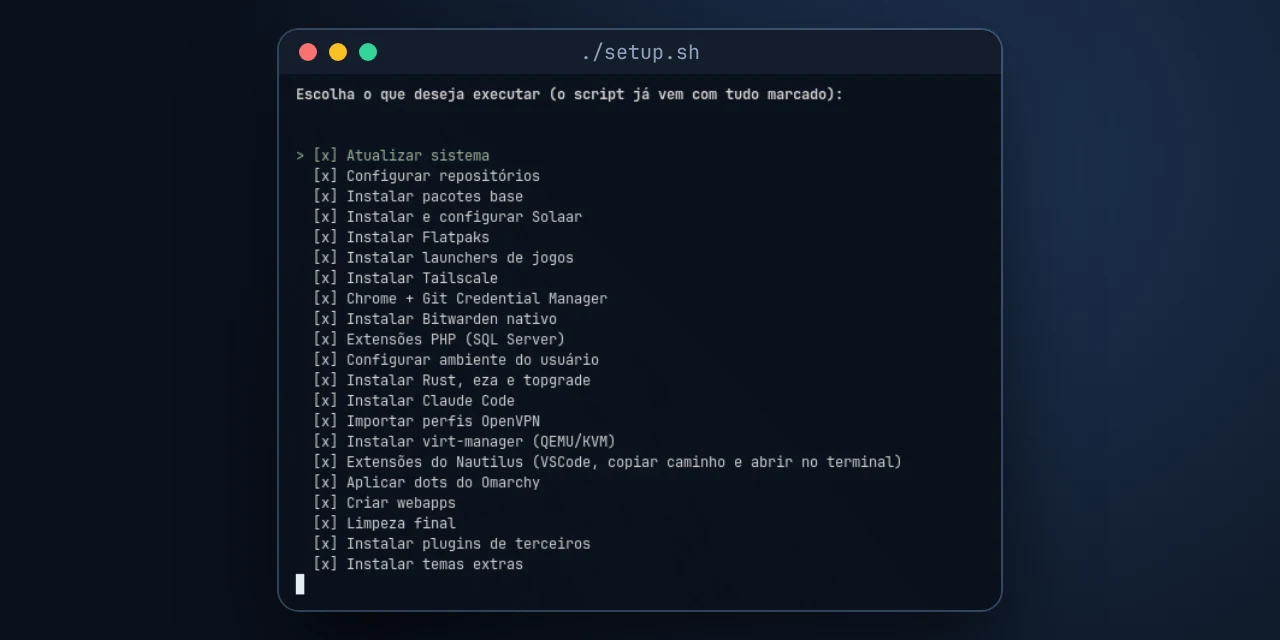
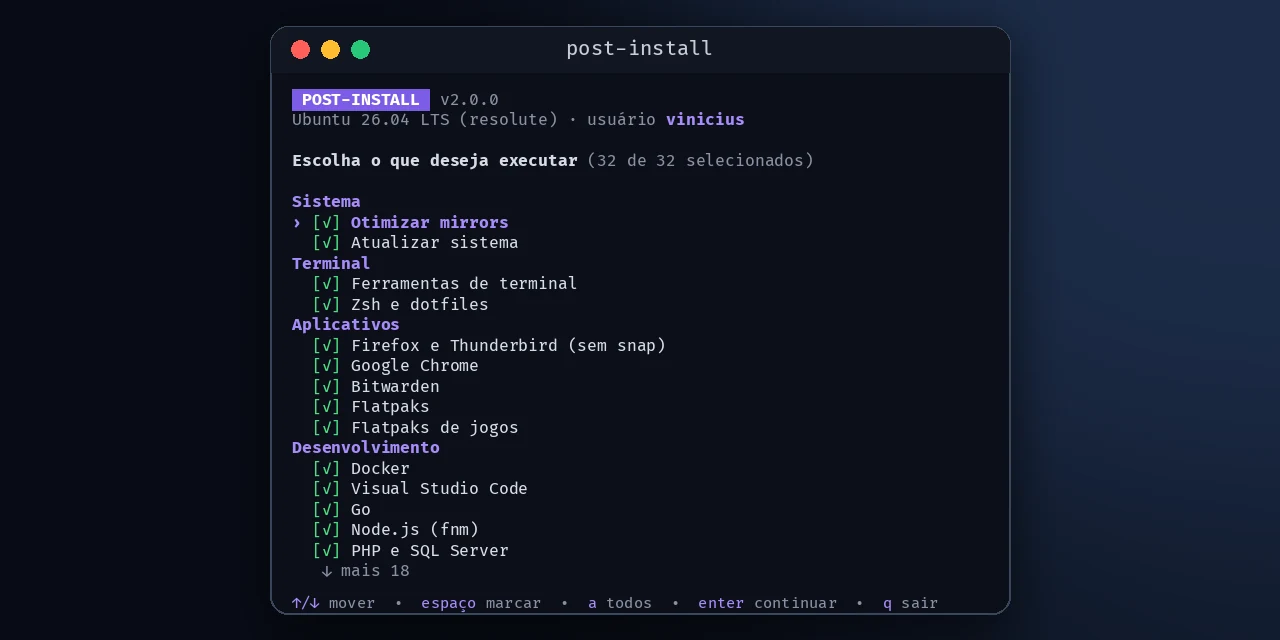
feat(projects): drop Omarchy projects and add current ones
Remove the Omarchy plugins card, which is no longer maintained, and
add the election results site and deploy-tools. The environment
automation card now points to post-install (Go TUI) and the Nautilus
card no longer lists the Omarchy-only terminal extension. New card
images and matching changes in the LaTeX resume.

diff --git a/src/app/data/projects.ts b/src/app/data/projects.ts
@@ -65,35 +65,48 @@ export const PROJECTS: Project[] = [
     links: {},
   },
   {
-    titulo: 'Plugins para Omarchy',
+    titulo: 'Resultados das Eleições',
     descricao:
-      'Widgets open-source para a barra do Omarchy (Arch + Hyprland): Now Bar, gerenciador de clipboard, VPN, mídia, bateria, energia e conexões remotas — além do tema Lunar Quest.',
-    imagem: 'assets/projects/omarchy_plugins.webp',
+      'Apuração das eleições brasileiras em tempo real com os dados oficiais do TSE: de presidente a vereador, do país inteiro até cada um dos 5.570 municípios, com mapa, notificações e tema escuro.',
+    imagem: 'assets/projects/resultado_eleicoes.webp',
     categoria: 'pessoal',
-    tecnologias: ['QML', 'Python', 'Linux', 'Wayland'],
+    tecnologias: ['Laravel', 'React', 'Inertia.js', 'Tailwind CSS'],
     contribuidores: ['vinicgobbi'],
     destaque: true,
-    links: { github: 'https://github.com/vinicgobbi?tab=repositories&q=omarchy' },
+    links: {
+      github: 'https://github.com/vinicgobbi/resultado',
+      website: 'https://resultado.vinicgobbi.dev.br',
+    },
   },
   {
     titulo: 'Automação de Ambiente',
     descricao:
-      'Scripts de pós-instalação para Linux e Windows e dotfiles versionados, que automatizam a configuração de uma máquina nova para desenvolvimento.',
+      'Pós-instalação para Ubuntu e Windows com interface interativa no terminal (TUI): escolha o que instalar e configurar, de Docker, VS Code e PHP + SQL Server a temas, extensões e dotfiles, numa máquina nova pronta para desenvolver.',
     imagem: 'assets/projects/automacao_ambiente.webp',
     categoria: 'pessoal',
-    tecnologias: ['Bash', 'PowerShell', 'Linux', 'Windows'],
+    tecnologias: ['Go', 'Bubble Tea', 'Linux', 'Windows'],
     contribuidores: ['vinicgobbi'],
-    links: { github: 'https://github.com/vinicgobbi/dots-omarchy' },
+    links: { github: 'https://github.com/vinicgobbi/post-install' },
+  },
+  {
+    titulo: 'Deploy Tools',
+    descricao:
+      'Deploy por releases com symlink para apps servidos pelo Apache: build no GitHub Actions, envio por SSH a um usuário dedicado, rollback instantâneo e uma CLI de tela cheia para operar o servidor.',
+    imagem: 'assets/projects/deploy_tools.webp',
+    categoria: 'pessoal',
+    tecnologias: ['Go', 'GitHub Actions', 'SSH', 'Apache'],
+    contribuidores: ['vinicgobbi'],
+    links: { github: 'https://github.com/vinicgobbi/deploy-tools' },
   },
   {
     titulo: 'Extensões para o Nautilus',
     descricao:
-      'Extensões para o gerenciador de arquivos do GNOME que adicionam ao menu de contexto: copiar caminho, abrir no VS Code e abrir no terminal.',
+      'Extensões para o gerenciador de arquivos do GNOME que adicionam ao menu de contexto: copiar o caminho e abrir no VS Code.',
     imagem: 'assets/projects/nautilus_extensoes.webp',
     categoria: 'pessoal',
     tecnologias: ['Python', 'Bash', 'GNOME'],
     contribuidores: ['vinicgobbi'],
-    links: { github: 'https://github.com/vinicgobbi?tab=repositories&q=nautilus' },
+    links: { github: 'https://github.com/vinicgobbi/nautilus-copypath' },
   },
   {
     titulo: 'Portfólio Pessoal',

diff --git a/resume/cv-vinicius-gobbi.tex b/resume/cv-vinicius-gobbi.tex
@@ -167,19 +167,24 @@ interfaces intuitivas e código limpo e organizado.
 {Stored Procedures para automatizar o envio de notificações de faltas, atualizações de notas e pendências financeiras.}
 
 \vspace{10pt}
-\cvproject{Plugins para Omarchy}{github.com/vinicgobbi}
-{QML · Python · Linux · Wayland}
-{Widgets open-source para a barra do Omarchy (Arch + Hyprland): Now Bar, gerenciador de clipboard, VPN, mídia, bateria, energia e conexões remotas, além do tema Lunar Quest.}
+\cvproject{Resultados das Eleições}{resultado.vinicgobbi.dev.br}
+{Laravel · React · Inertia.js · Tailwind CSS}
+{Apuração das eleições brasileiras em tempo real com os dados oficiais do TSE, de presidente a vereador, do país inteiro até cada um dos 5.570 municípios.}
 
 \vspace{10pt}
-\cvproject{Automação de Ambiente}{github.com/vinicgobbi/dots-omarchy}
-{Bash · PowerShell · Linux · Windows}
-{Scripts de pós-instalação para Linux e Windows e dotfiles versionados, que automatizam a configuração de uma máquina nova para desenvolvimento.}
+\cvproject{Automação de Ambiente}{github.com/vinicgobbi/post-install}
+{Go · Bubble Tea · Linux · Windows}
+{Pós-instalação para Ubuntu e Windows com interface interativa no terminal (TUI), que deixa uma máquina nova pronta para desenvolver.}
+
+\vspace{10pt}
+\cvproject{Deploy Tools}{github.com/vinicgobbi/deploy-tools}
+{Go · GitHub Actions · SSH · Apache}
+{Deploy por releases com symlink: build no GitHub Actions, envio por SSH a um usuário dedicado e rollback instantâneo.}
 
 \vspace{10pt}
 \cvproject{Extensões para o Nautilus}{github.com/vinicgobbi}
 {Python · Bash · GNOME}
-{Extensões para o gerenciador de arquivos do GNOME que adicionam ao menu de contexto: copiar caminho, abrir no VS Code e abrir no terminal.}
+{Extensões para o gerenciador de arquivos do GNOME que adicionam ao menu de contexto: copiar o caminho e abrir no VS Code.}
 
 \vspace{10pt}
 \cvproject{Portfólio Pessoal}{vinicgobbi.dev.br}
